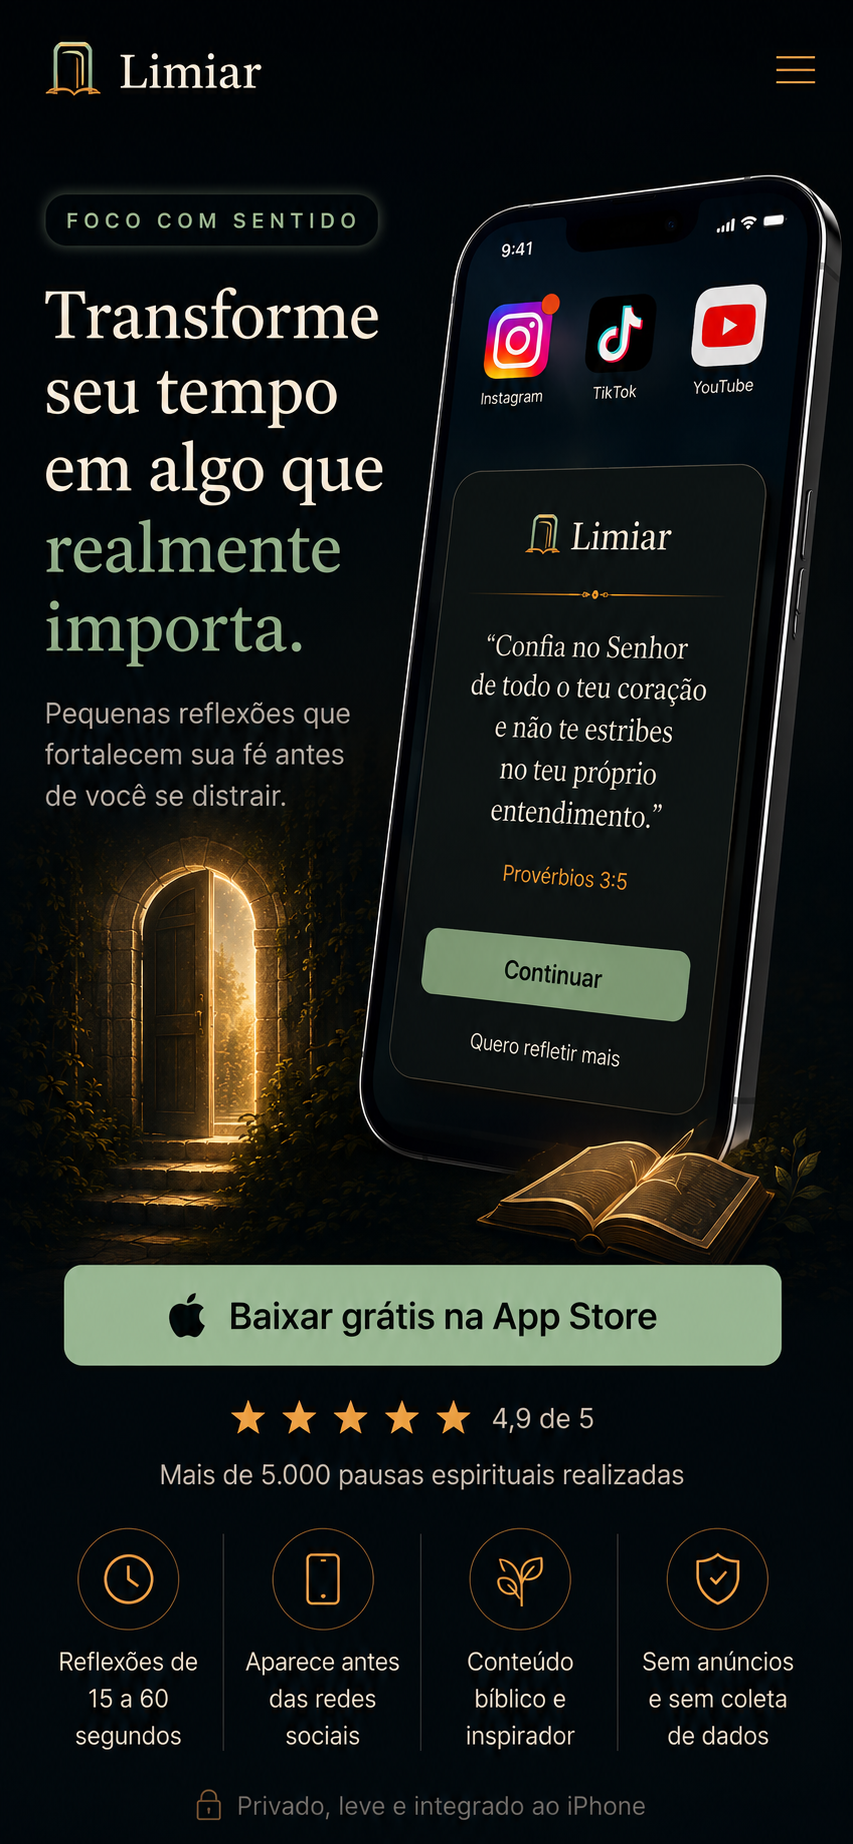
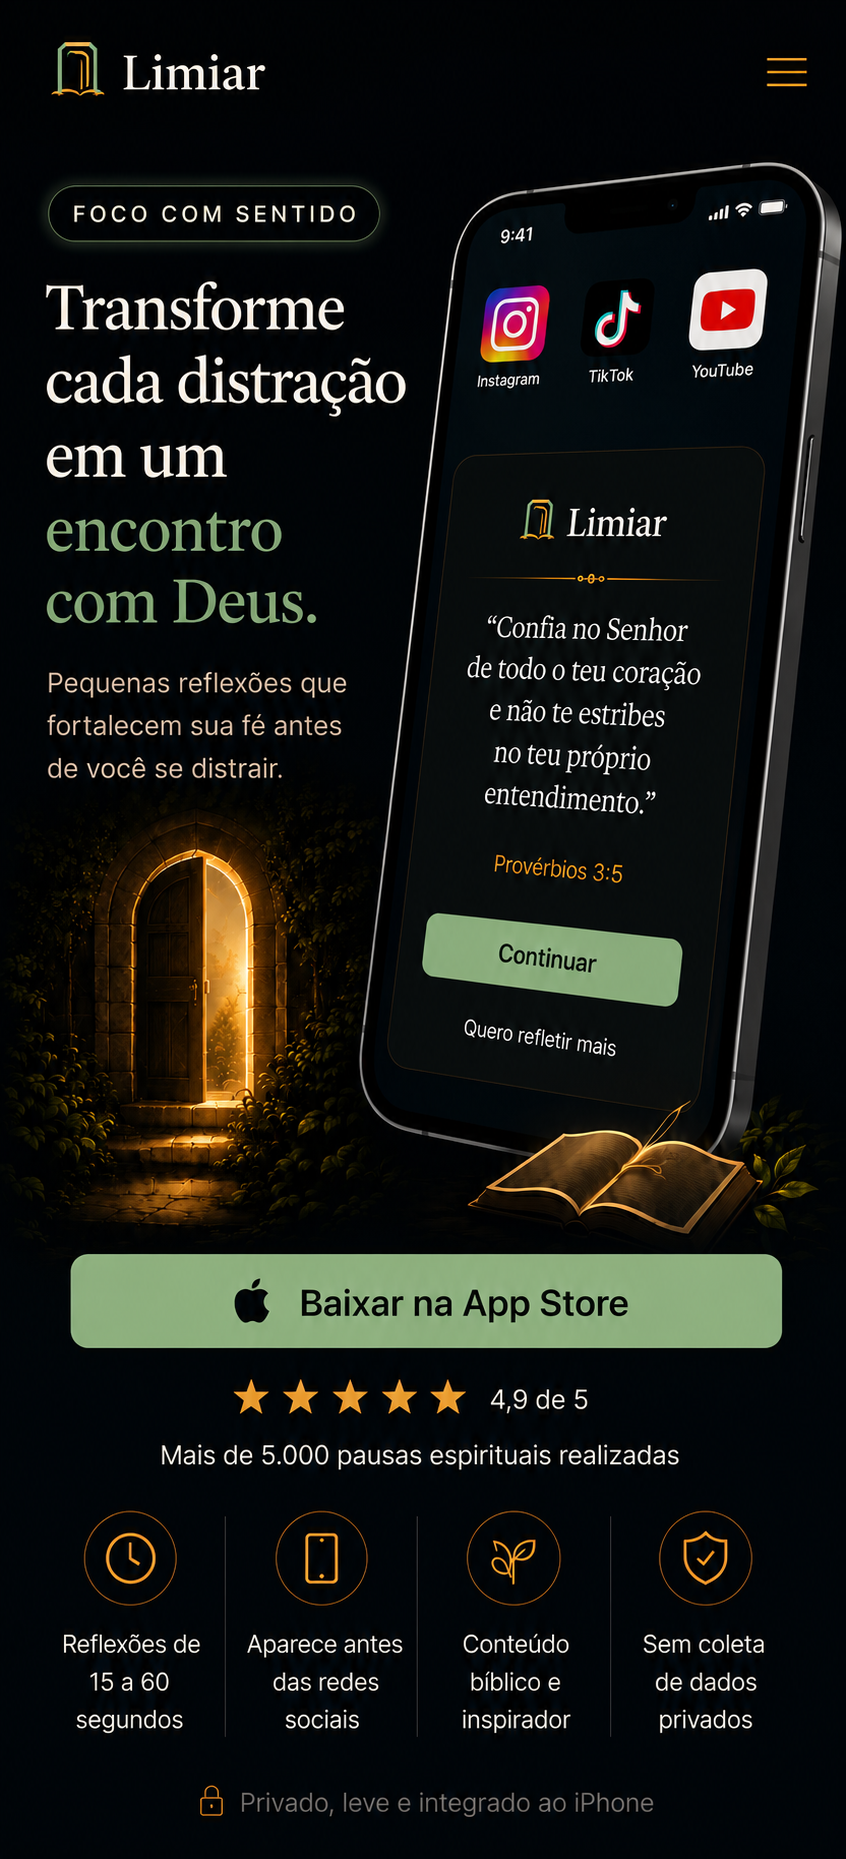
Atualiza arte da dobra mobile

diff --git a/index.html b/index.html
@@ -36,7 +36,7 @@
 
     <main>
       <section class="mobile-hero" aria-label="Limiar no iPhone">
-        <img class="mobile-first-fold-art" src="assets/mobile-first-fold.png" alt="Limiar: transforme seu tempo em algo que realmente importa. Baixar grátis na App Store.">
+        <img class="mobile-first-fold-art" src="assets/mobile-first-fold.png?v=20260705-divine-meeting" alt="Limiar: transforme cada distração em um encontro com Deus. Baixar na App Store.">
         <a class="mobile-first-fold-cta" href="https://apps.apple.com/br/app/limiar/id6783115468" aria-label="Baixar grátis na App Store"></a>
       </section>
 

diff --git a/marketing/site/index.html b/marketing/site/index.html
@@ -36,7 +36,7 @@
 
     <main>
       <section class="mobile-hero" aria-label="Limiar no iPhone">
-        <img class="mobile-first-fold-art" src="assets/mobile-first-fold.png" alt="Limiar: transforme seu tempo em algo que realmente importa. Baixar grátis na App Store.">
+        <img class="mobile-first-fold-art" src="assets/mobile-first-fold.png?v=20260705-divine-meeting" alt="Limiar: transforme cada distração em um encontro com Deus. Baixar na App Store.">
         <a class="mobile-first-fold-cta" href="https://apps.apple.com/br/app/limiar/id6783115468" aria-label="Baixar grátis na App Store"></a>
       </section>
 

diff --git a/design-qa.md b/design-qa.md
@@ -1,6 +1,6 @@
 final result: passed
 
-Reference: /Users/romeucunha/Downloads/1C86878A-40BE-4276-833E-FFFD0D4DBBB3.PNG
+Reference: /Users/romeucunha/Downloads/8DF1594E-6134-48A4-94C0-1674911F1780.PNG
 
 Viewport checked: 393 x 852 mobile.
 
